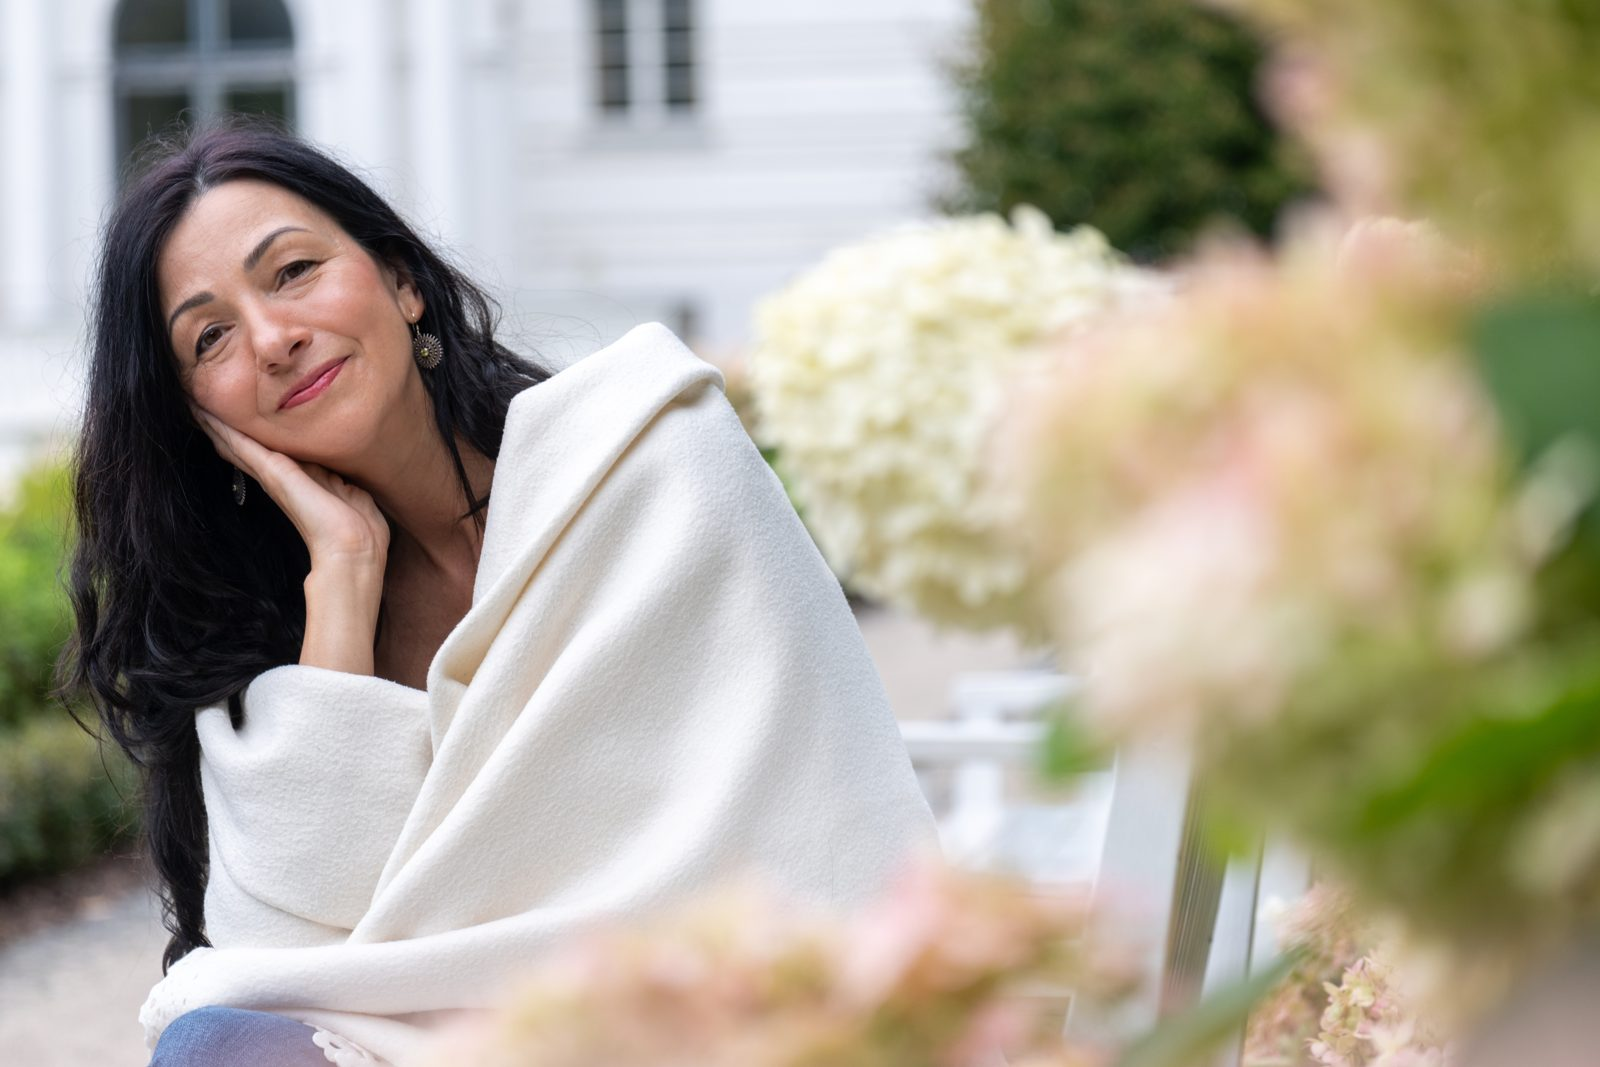
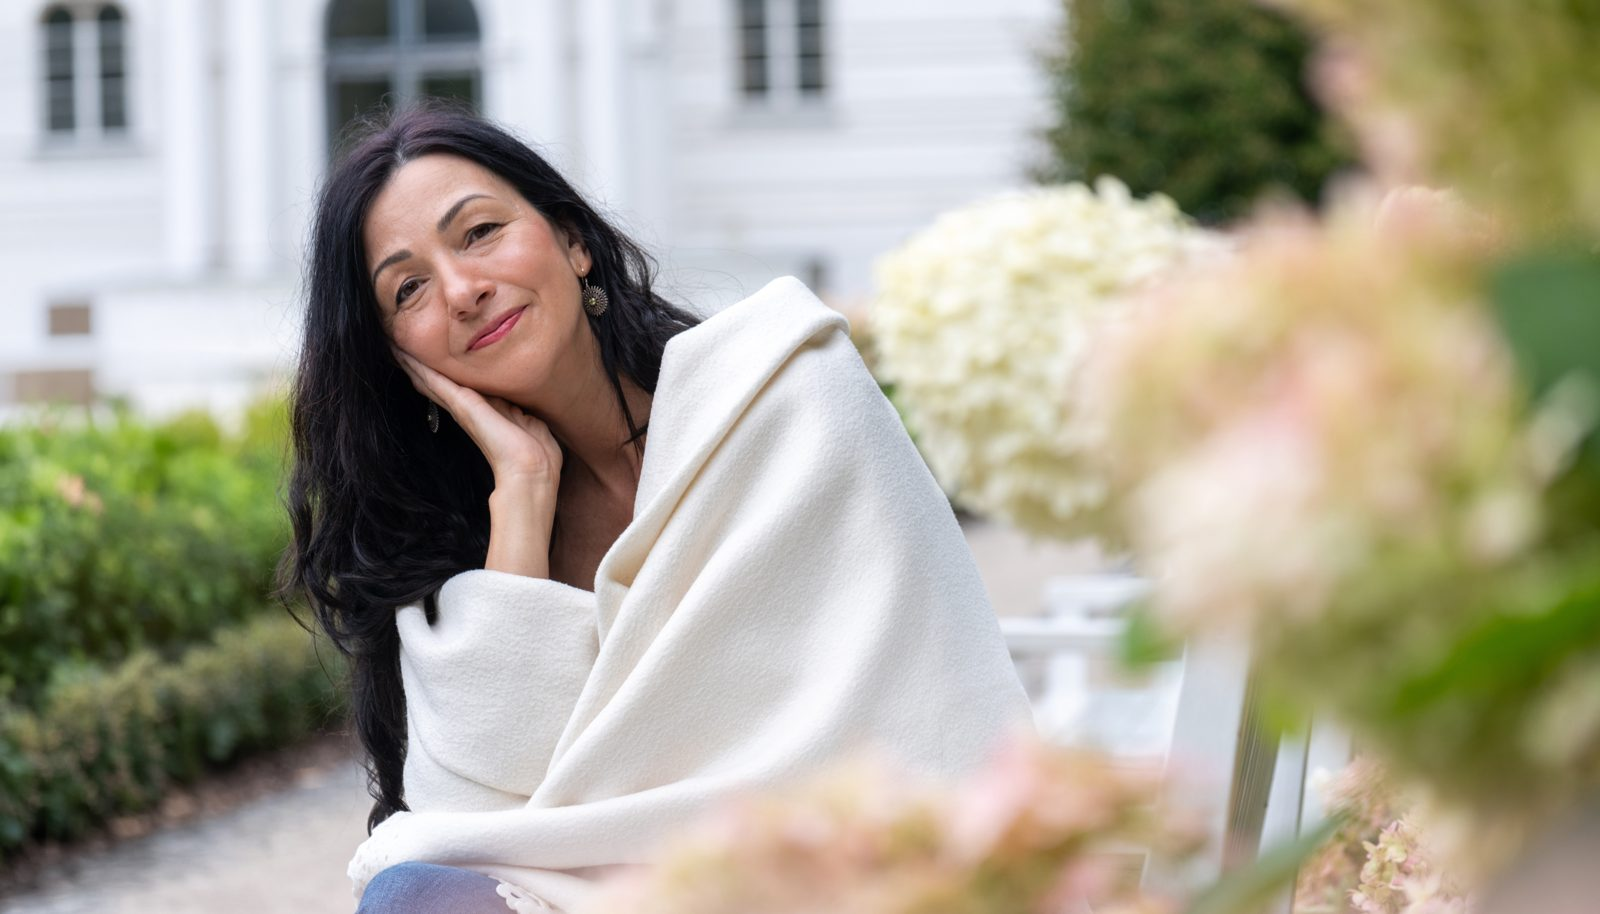
Home Living Zero mosaic: updated crop of shawl photo
Claude-Session: https://claude.ai/code/session_01Nd9pMYxyw77QHw9bAA3drJ

diff --git a/design-1/index.html b/design-1/index.html
@@ -110,7 +110,7 @@
     <div class="mosaic rows" style="margin-top:3rem">
       <figure style="grid-column:span 7"><img src="images/yoga.jpg" alt="A group holding side planks together in a bright studio" loading="lazy" style="object-position:center 40%"></figure>
       <figure style="grid-column:span 5"><img src="images/member.jpg" alt="A smiling man in a burgundy sweater on a sofa at home" loading="lazy" style="object-position:70% 30%"></figure>
-      <figure style="grid-column:span 4"><img src="images/shawl.jpg" alt="A smiling woman wrapped in a cream shawl, resting in a garden of hydrangeas" loading="lazy" style="object-position:25% 35%"></figure>
+      <figure style="grid-column:span 4"><img src="images/shawl.jpg" alt="A smiling woman wrapped in a cream shawl, resting in a garden of hydrangeas" loading="lazy" style="object-position:35% 30%"></figure>
       <figure style="grid-column:span 8"><img src="images/portrait-man.jpg" alt="A smiling man in a blazer, arms crossed, in a bright space with plants" loading="lazy" style="object-position:52% 30%"></figure>
     </div>
     <div class="more"><a class="btn ghost" href="living.html" style="color:var(--shutter)">Explore Living Zero</a></div>

diff --git a/design-1c/index.html b/design-1c/index.html
@@ -127,7 +127,7 @@
     <div class="mosaic rows" style="margin-top:3rem">
       <figure style="grid-column:span 7"><img src="images/yoga.jpg" alt="A group holding side planks together in a bright studio" loading="lazy" style="object-position:center 40%"></figure>
       <figure style="grid-column:span 5"><img src="images/member.jpg" alt="A smiling man in a burgundy sweater on a sofa at home" loading="lazy" style="object-position:70% 30%"></figure>
-      <figure style="grid-column:span 4"><img src="images/shawl.jpg" alt="A smiling woman wrapped in a cream shawl, resting in a garden of hydrangeas" loading="lazy" style="object-position:25% 35%"></figure>
+      <figure style="grid-column:span 4"><img src="images/shawl.jpg" alt="A smiling woman wrapped in a cream shawl, resting in a garden of hydrangeas" loading="lazy" style="object-position:35% 30%"></figure>
       <figure style="grid-column:span 8"><img src="images/portrait-man.jpg" alt="A smiling man in a blazer, arms crossed, in a bright space with plants" loading="lazy" style="object-position:52% 30%"></figure>
     </div>
     <div class="more"><a class="btn ghost" href="living.html" style="color:var(--shutter)">Explore Living Zero</a></div>
